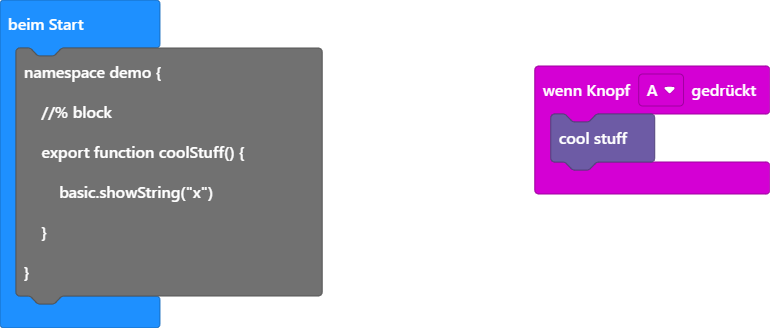
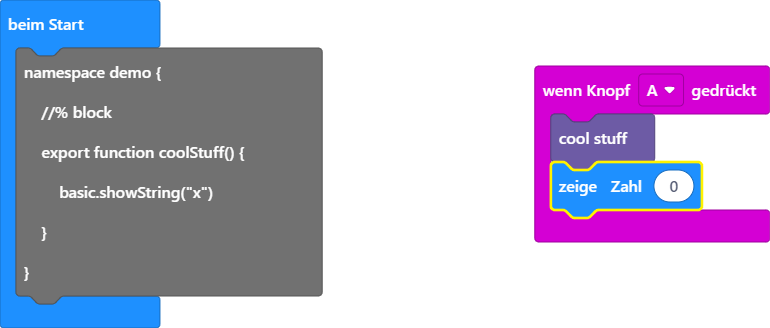
Aktualisiere main.blocks, main.ts

Changed region(s): [[0.6857, 0.4878, 1.0, 0.7622]]

diff --git a/main.ts b/main.ts
@@ -1,5 +1,6 @@
 input.onButtonPressed(Button.A, function () {
     demo.coolStuff()
+    basic.showNumber(0)
 })
 namespace demo {
     //% block
